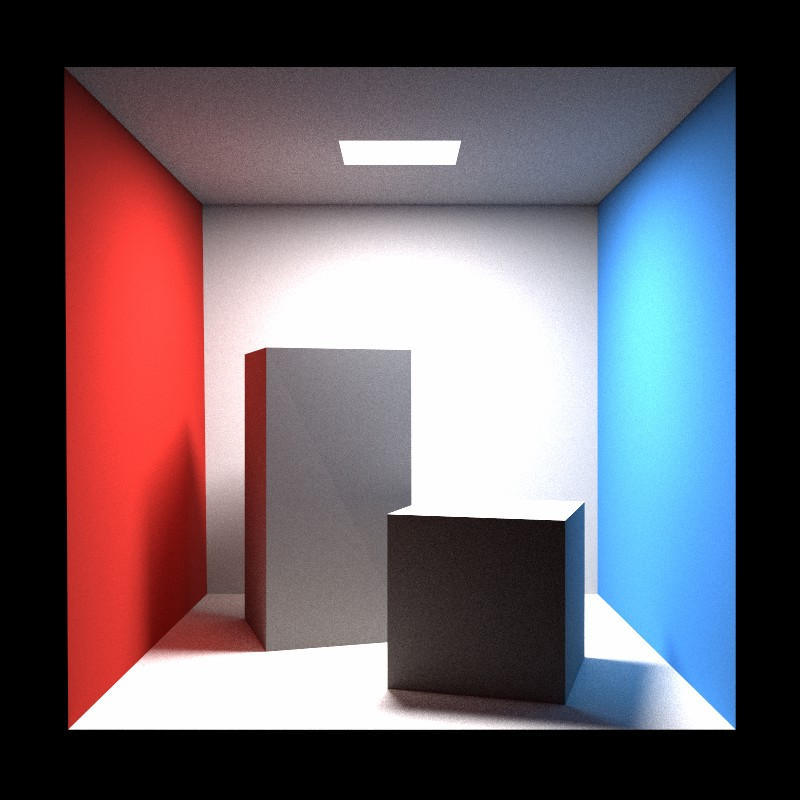
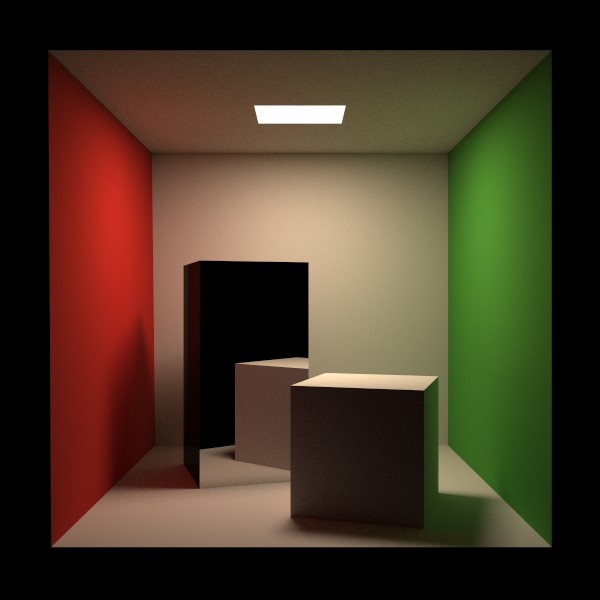
shadow_ray

diff --git a/src/renderer/path_tracing_renderer.cc b/src/renderer/path_tracing_renderer.cc
@@ -17,6 +17,9 @@ Vector3f PathTracingRenderer::cast_ray(
   Intersection isect;
   if (!prim->Intersect(r, &isect))
     return {0};
+  auto emission = isect.mat_ptr->evalEmitted(r.direction_, isect);
+  if (emission.squared_length() > 0.0f) // no more bounce when hitting a light
+    return {1};
 
   // Shadow ray
   Intersection light_pos;
@@ -25,42 +28,54 @@ Vector3f PathTracingRenderer::cast_ray(
   if (size == 0) {
     throw std::runtime_error("PathTracingRenderer needs at least one light!");
   }
-
   int index = std::floor(size * get_random_float(0.0, 0.99));
-  // we hope the sample is visible from the isect.coords
-  // if return {pos,0.0}, the sample is not visible.
-  std::tie(light_pos, light_pdf) = lights.at(index)->sample(isect.coords);
+  std::tie(light_pos, light_pdf) = lights.at(index)->sample();
   Vector3f L_in = {0};
-  Vector3f new_direction;
-  float pdf;
-  if (light_pdf == 0.0f ||
-      get_random_float() <
-          0.5) { // if not visible, we simply let the ray scatter
-    std::tie(new_direction, pdf) =
-        isect.mat_ptr->sampleScatter(r.direction_, isect);
-  } else {
-    float emit_area = 0;
-    for (const auto &i : lights) {
-      emit_area += i->Area();
+  Vector3f L_shadowray = {0};
+  if (!isect.mat_ptr->specular) {
+    Vector3f shadowray_direction =
+        (light_pos.coords - isect.coords).normalize();
+    Ray shadow_ray(isect.coords, shadowray_direction);
+    Intersection shadow_intersection;
+    prim->Intersect(shadow_ray, &shadow_intersection);
+    if (shadow_intersection.happened) {
+      auto shadow_emission = shadow_intersection.mat_ptr->evalEmitted(
+          shadowray_direction, shadow_intersection);
+      if (shadow_emission.squared_length() > 0.0f) //命中光源
+      {
+        float emit_area = 0;
+        for (const auto &i : lights) {
+          emit_area += i->Area();
+        }
+        light_pdf = 1 / emit_area;
+        float distance2 = (light_pos.coords - isect.coords).squared_length();
+        float cosine2 =
+            std::max(dot(-shadowray_direction, light_pos.normal), 0.0f);
+        float cosine1 = std::max(dot(shadowray_direction, isect.normal), 0.0f);
+        auto brdf =
+            isect.mat_ptr->evalBxDF(r.direction_, isect, shadowray_direction);
+        L_shadowray = multiply(brdf, shadow_emission) * cosine1 * cosine2;
+        L_shadowray /= (distance2 * light_pdf);
+      }
     }
-    light_pdf = 1 / emit_area;
-    new_direction = (light_pos.coords - isect.coords).normalize();
-    float distance2 = (light_pos.coords - isect.coords).squared_length();
-    float cosine = std::fabs(dot(-new_direction, light_pos.normal));
-    if (cosine < 0.01f) {
-      return isect.mat_ptr->evalEmitted(r.direction_, isect);
-    }
-    pdf = distance2 * (1 / cosine) * (light_pdf);
   }
-  Ray r_new(isect.coords, new_direction);
+
+  Vector3f scatter_direction;
+  float scatter_pdf = 0.0f;
+  std::tie(scatter_direction, scatter_pdf) =
+      isect.mat_ptr->sampleScatter(r.direction_, isect);
+  Ray r_new(isect.coords, scatter_direction);
   auto brdf = isect.mat_ptr->evalBxDF(r.direction_, isect, r_new.direction_);
-  L_in = isect.mat_ptr->evalEmitted(r.direction_, isect);
 
   auto part1 = cast_ray(r_new, prim, lights, depth + 1);
   auto part2 = multiply(brdf, part1);
-  L_in += part2 * std::max(dot(r_new.direction_, isect.normal), 0.0f) /
-          (pdf * russian_roulette + kEpsilon); // avoid zero
-  return L_in;
+  L_in = part2 * std::max(dot(r_new.direction_, isect.normal), 0.0f) /
+         (scatter_pdf * russian_roulette + kEpsilon); // avoid zero
+  if (L_in.length() > 1) {
+    int i = 0;
+    ignore(i);
+  }
+  return L_in + L_shadowray;
 }
 void PathTracingRenderer::render_tile(
     std::shared_ptr<Camera> cam, std::shared_ptr<Primitive> prim,

diff --git a/src/material/glass_material.h b/src/material/glass_material.h
@@ -5,9 +5,13 @@ NAMESPACE_BEGIN(DR)
 // perfect mirrror
 class GlassMaterial : public Material {
 public:
-  GlassMaterial(std::shared_ptr<Texture> texture) : texture_(texture) {}
+  GlassMaterial(std::shared_ptr<Texture> texture) : texture_(texture) {
+    this->specular = true;
+  }
   GlassMaterial(std::shared_ptr<Texture> texture, Vector3f emission)
-      : texture_(texture), emission_(emission) {}
+      : texture_(texture), emission_(emission) {
+    this->specular = true;
+  }
   Vector3f evalBxDF(const vec3 &r_in, const Intersection &isect,
                     const vec3 &r_out) const override;
   std::pair<Vector3f, float>

diff --git a/src/material/glass_material.cc b/src/material/glass_material.cc
@@ -3,8 +3,10 @@ using namespace DR;
 
 Vector3f GlassMaterial::evalBxDF(const vec3 &r_in, const Intersection &isect,
                                  const vec3 &r_out) const {
-  if (!almost_equal(dot(reflect(r_in, isect.normal), r_out), 1.0))
+  auto tmp = dot(reflect(r_in, isect.normal), r_out);
+  if (std::fabs(tmp - 1.0f) > 1e-2) {
     return {};
+  }
   return this->texture_->evalValue(isect);
 }
 

diff --git a/src/material/material.h b/src/material/material.h
@@ -18,6 +18,7 @@ struct Material
     ignore(isect);
     return {};
   }
+  bool specular = false;
 };
 
 
